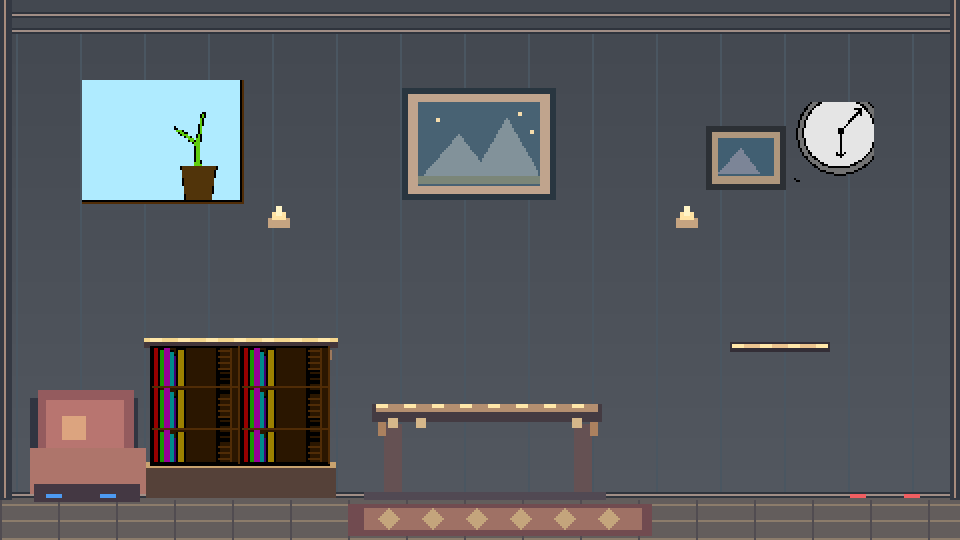
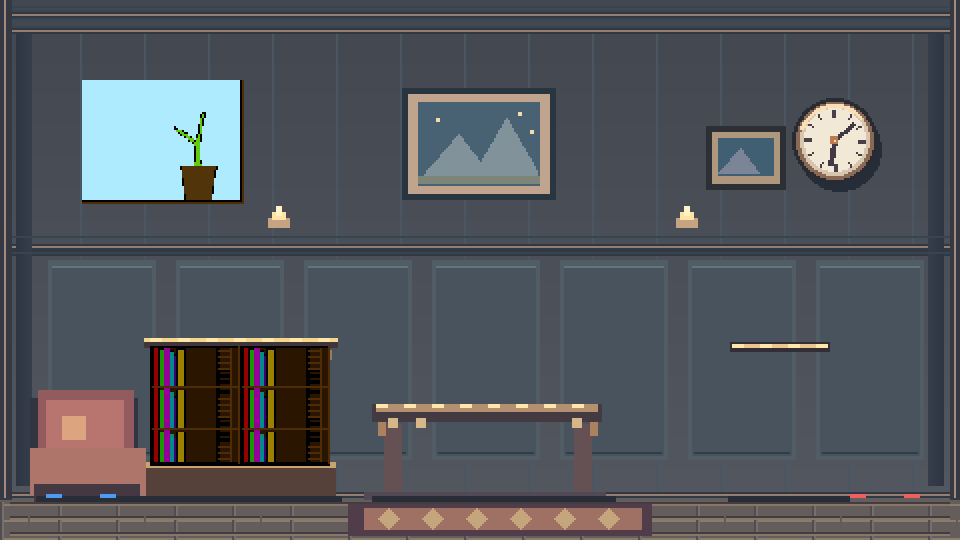
room depth

diff --git a/gameplay/msd/art/generate_room.py b/gameplay/msd/art/generate_room.py
@@ -5,6 +5,7 @@ The original PPT furniture/window/clock tiles have already been extracted by
 no AI image generation or new gameplay collision layers are involved.
 """
 from PIL import Image, ImageDraw
+import math
 from pathlib import Path
 import random
 D=Path(__file__).resolve().parent
@@ -15,15 +16,31 @@ d=ImageDraw.Draw(im)
 def box(rect,color):d.rectangle(rect,fill=color)
 def line(points,color,width=1):d.line(points,fill=color,width=width)
 
-# Art-team-style pale slate walls, timber rails and a readable plain floor.
+# Paint the far wall first. Restrained architectural depth, not blurred HD art.
+# All geometry is painted at half resolution and doubled with NEAREST below.
+# The floor/world physics remains independent from every visual layer.
 for y in range(249):
     shade=int(67+16*y/250)
     line((0,y,479,y),(shade,shade+5,shade+13,255))
+# Wall paneling recedes behind art: dark coves, gold trim, darkening into
+# the corners to give the room visual depth even with a locked 2D camera.
 for x in range(8,480,32):
     line((x,16,x,247),'#4a5661')
-for y in [6,14,246]:
-    box((0,y,479,y+2),'#2f343d')
-    line((3,y+1,475,y+1),'#a18e86')
+for y in [6,14,122,125,246]:
+    box((0,y,479,y+2),'#303943')
+    line((3,y+1,475,y+1),'#957e70')
+for x in range(24,463,64):
+    box((x,130,x+53,229),'#515d65')
+    box((x+2,133,x+51,227),'#48535e')
+    line((x+2,133,x+51,133),'#67737b')
+    line((x+3,226,x+50,226),'#313c47')
+# Subtle ambient occlusion where ceiling/corners meet the wall.
+for i in range(8):
+    ink=(45+i,54+i,66+i,255)
+    line((8+i,17,8+i,242),ink)
+    line((471-i,17,471-i,242),ink)
+for y in [3,5,9,13,118,126]:
+    line((5,y,474,y),'#394451')
 # Design Team "Crime Scene" layout (PPT slide 12): left window,
 # bookshelves on the left, central work desk/monitor, upper-wall AC, wall
 # clock and refrigerator storage on the right. The older giant moon/city
@@ -52,8 +69,18 @@ for x in (139,343):
 # refrigerator top at y350, and physical floor at y498. No new colliders.
 box((0,249,479,269),'#635d5c')
 for yy in [252,260,269]:line((0,yy,479,yy),'#8c7c6b')
-for x in range(0,480,29):line((x,250,x,270),'#514c51')
-box((174,252,325,267),'#714b50')
+# Floor boards are horizontal in perspective, with stepped highlights and
+# deeper seams away from the wall. The room still has the same 498px floor.
+for x in range(0,480,29):
+    line((x,251,x,270),'#514c51')
+    line((x+1,251,x+1,269),'#77706a')
+for y in (251,258,266):
+    line((5,y,474,y),'#443c42')
+    line((5,y+1,474,y+1),'#877768')
+for x in range(14,480,58):
+    line((x,258,x,264),'#655a57')
+# Rug gets a deep edge and patterned top; completely visual.
+box((174,252,325,267),'#513c49')
 box((182,254,320,264),'#9f7165')
 for x in range(189,319,22):
     d.polygon([(x,259),(x+5,254),(x+10,259),(x+5,264)],fill='#c4a57c')
@@ -103,14 +130,92 @@ for base_x in (75,120):
     art('shelf',(base_x,173,45,60))
 # Keep the plant window below the persistent top HUD, preserve 134:103 ratio.
 art('window',(41,40,81,62))
-art('clock',(397,51,40,40))
+# The PPT collage clips off the right side of its clock (team_clock.png has
+# opaque pixels right through its last column). NEVER edit the Art Team file.
+# Reconstruct a complete hand-pixelled clock at the same on-wall position.
+def whole_clock(cx=417, cy=70, radius=20):
+    # A small cast shadow makes the object project from the wall.
+    d.ellipse((cx-radius+2,cy-radius+4,cx+radius+3,cy+radius+5),fill='#252e38')
+    d.ellipse((cx-radius-1,cy-radius-1,cx+radius+1,cy+radius+1),fill='#282b32')
+    d.ellipse((cx-radius+1,cy-radius+1,cx+radius-1,cy+radius-1),fill='#8a6856')
+    d.ellipse((cx-radius+3,cy-radius+2,cx+radius-3,cy+radius-3),fill='#d7c6ad')
+    d.ellipse((cx-radius+5,cy-radius+4,cx+radius-5,cy+radius-5),fill='#f2e8d6')
+    d.arc((cx-radius+2,cy-radius+2,cx+radius-2,cy+radius-2),200,320,fill='#f9dfb7',width=2)
+    for hour in range(12):
+        theta=math.radians(hour*30-90)
+        r1=radius-8 if hour%3==0 else radius-7
+        r2=radius-5
+        x1=cx+round(math.cos(theta)*r1)
+        y1=cy+round(math.sin(theta)*r1)
+        x2=cx+round(math.cos(theta)*r2)
+        y2=cy+round(math.sin(theta)*r2)
+        d.line((x1,y1,x2,y2),fill='#49404a',width=2 if hour%3==0 else 1)
+    # Two independent hands, centered hub, and short highlight. No motion
+    # dependency: the clock remains a faithful pixel prop on a static map.
+    d.line((cx,cy,cx+10,cy-9),fill='#413843',width=2)
+    d.line((cx,cy,cx-2,cy+12),fill='#413843',width=3)
+    d.rectangle((cx-2,cy-2,cx+1,cy+1),fill='#b97c50')
+    d.point((cx,cy),fill='#ffe0a4')
+whole_clock()
 # Add platform edge bright pixels above the furniture silhouettes.
 d=ImageDraw.Draw(im)
 for a,b,y in [(75,166,169),(188,298,202),(366,414,172)]:
     for x in range(a,b,14): box((x,y,x+5,y+1),'#ffe7a9')
+# Contact shadows: foot/furniture grounding, separate from collision.
+# Applying AFTER furniture would obscure their pixel art, so keep contact
+# at the floor/wall boundary only and to the sides of footprints.
+for a,b in [(15,74),(76,165),(183,302),(361,419)]:
+    box((a+3,248,b+5,250),'#292d37')
+    line((a+7,251,b+2,251),'#443d40')
 # Local co-op spawn brackets; P1 blue, P2 red (match Character design).
 for x,c in ((40,'#4d9af2'),(442,'#f05e61')):
     box((x-17,247,x-10,248),c);box((x+10,247,x+17,248),c)
-# Only now double to 960x540 with no anti-aliasing.
-im.resize((960,540),Image.Resampling.NEAREST).save(D/'living_room_pixel.png',optimize=True)
-print('Repainted Godot room using PPT Art subteam assets', (960,540))
+# Build separate transparent *depth layers* rather than baking all light
+# into the same opaque room. This leaves collision, players and interface
+# untouched and permits tuning the "HD-2D inspired" atmosphere independently.
+lighting=Image.new('RGBA',(W,H),(0,0,0,0))
+ld=ImageDraw.Draw(lighting)
+# Stepped lamp pools and stained-glass moonlight; no blur or filtering.
+for cx,cy,rx,ry,r,g,b in [(79,104,73,120,116,165,218),
+                          (247,87,88,67,239,186,116),
+                          (280,196,71,47,83,179,222)]:
+    for level in range(6,0,-1):
+        f=level/6.0
+        opacity=10 if level>=4 else 14
+        ld.ellipse((round(cx-rx*f),round(cy-ry*f),round(cx+rx*f),round(cy+ry*f)),fill=(r,g,b,opacity))
+# Soft-edged perspective rays made of layered translucent polygons.
+for alpha,poly in [(17,[(42,79),(89,79),(154,248),(102,248)]),
+                   (9,[(72,90),(122,90),(190,248),(157,248)])]:
+    ld.polygon(poly,fill=(163,208,234,alpha))
+# Subtle wall/floor separation and side-room shadow, not screen-space blur.
+for i in range(11):
+    opacity=6 if i<5 else 3
+    ld.line((6+i,129,6+i,246),fill=(12,20,29,opacity))
+    ld.line((473-i,129,473-i,246),fill=(12,20,29,opacity))
+for y in range(241,249):
+    ld.line((10,y,471,y),fill=(15,17,26,7))
+
+# Foreground plant silhouettes only at far corners. Players and furniture
+# stay unobstructed in the center of the arena; low-key close parallax cues.
+front=Image.new('RGBA',(W,H),(0,0,0,0))
+fd=ImageDraw.Draw(front)
+for root_x,sgn in ((7,1),(473,-1)):
+    fd.line((root_x,249,root_x+10*sgn,202),fill=(30,53,53,218),width=3)
+    for i,(dx,dy) in enumerate(((5,13),(13,24),(3,36),(17,42),(8,53))):
+        px=root_x+dx*sgn
+        py=249-dy
+        fd.polygon([(px,py),(px+sgn*(8+i%3),py-10),(px+sgn*15,py-4)],fill=(36,73,66,170))
+        fd.line((px,py,px+sgn*10,py-5),fill=(85,134,106,115))
+    fd.rectangle((root_x-6,246,root_x+6,257),fill=(53,49,52,231))
+    fd.line((root_x-5,247,root_x+5,247),fill=(169,124,87,225),width=2)
+# Foreground shelf/apron gives table physical depth without hiding the actors.
+fd.rectangle((182,247,301,249),fill=(40,31,43,150))
+fd.line((185,247,300,247),fill=(169,119,90,125),width=1)
+
+for filename,source in [
+    ('living_room_pixel.png',im),
+    ('living_room_lighting.png',lighting),
+    ('living_room_foreground.png',front),
+]:
+    source.resize((960,540),Image.Resampling.NEAREST).save(D/filename,optimize=True)
+print('Art Team room + repaired clock + background/light/foreground depth layers', (960,540))

diff --git a/gameplay/ART_SOURCES.md b/gameplay/ART_SOURCES.md
@@ -43,3 +43,39 @@ surface matched to a source-proportional 90×154 pixel image. This alignment is
 specific to the independent Gameplay playtest scene.
 
 - **Design Team slide 12:** The central window was replaced by a smaller framed illustration to keep the agreed left-side window, shelf, desk, AC, clock and right-fridge hierarchy visible. Gameplay owns this independent prototype only.
+
+## Repaired Art Team clock and layered 2D room (October 12)
+
+The original `team_clock.png` is cropped at its rightmost edge in the source
+Art Team furniture collage. It remains preserved, unmodified, as an upstream
+source. `msd/art/generate_room.py` instead repaints **a complete pixel-art
+clock in the same position**, with a full outer ring, ivory dial, twelve
+hour ticks, two hands, a raised rim and a small drop shadow. This repair does
+not claim to be a new official Art Team deliverable.
+
+The isolated Gameplay room uses three distinct 960x540 painted pixel plates:
+
+1. `living_room_pixel.png`: original furniture composition, wall paneling,
+   stepped wood floor planks, platform edges, rug depth and grounding shadows.
+2. `living_room_lighting.png`: a transparent overlay of cool window rays,
+   warm light pools, and subtle wall occlusion. Runtime node `RoomLighting`
+   appears above the material marker layer and below Gameplay characters.
+3. `living_room_foreground.png`: transparent near-camera corner leaves and
+   tabletop apron; runtime node `RoomForeground` appears above actors only at
+   the scene edges, never across the core interactions.
+
+The runtime `room_depth_layer.gd` uses nearest-neighbor rendering of the two
+transparent plates. This is a deliberately restrained **HD-2D-inspired 2D
+layering treatment**, not a reproduction of the Octopath Traveler art assets,
+lighting engine or 3D environments. All assets were produced from local
+code and the team's existing raster inputs; no online art was downloaded.
+
+Regenerate the three aligned plates after layout tweaks:
+
+```bash
+/usr/bin/python3 gameplay/msd/art/generate_room.py
+```
+
+`gameplay/tests/gameplay_room_depth_test.gd` verifies the repaired clock dial
+and rim, translucent spatial layers, intended Z ordering, center playfield
+visibility and unchanged Simulation/physics contracts.

diff --git a/gameplay/README.md b/gameplay/README.md
@@ -182,3 +182,21 @@ main's API scaffold **and an isolated copy where the exact original Ethan
 `material_grid.gd` is installed**. The Art Team's alternate 736×736 casting
 pose is now selected *after* processing the relevant input event, removing
 the previous one-physics-frame latency for Spark/interact/magic.
+
+## 13. Pixel depth and restored wall clock
+
+The Art Team clock crop in the presentation's furniture composition is missing
+part of its right border. The Gameplay room now reconstructs a complete analog
+clock at the same wall location in `msd/art/generate_room.py`, while preserving
+the original `team_clock.png`. The room is composited with independent
+`RoomLighting` and `RoomForeground` sprites, both 960x540 transparent PNGs.
+Their Z depth is: background (-5), material markers (-4), soft stepped light
+(-3), actors (10), and only edge-of-frame foreground plants (11). All use
+pixelated, nearest-neighbor sampling, not blurred upscaling. Source files and
+attribution are listed in `ART_SOURCES.md`.
+
+The enhanced wall paneling, wood floor perspective, baseboard, shadow contacts
+and clock are **visual only**; static bodies, character interactions, material
+IDs and Simulation storage remain unchanged. The old Art Team clock texture
+is still included but intentionally no longer composited into the wall.
+`gameplay_room_depth_test.gd` checks pixel completeness and physics boundaries.
